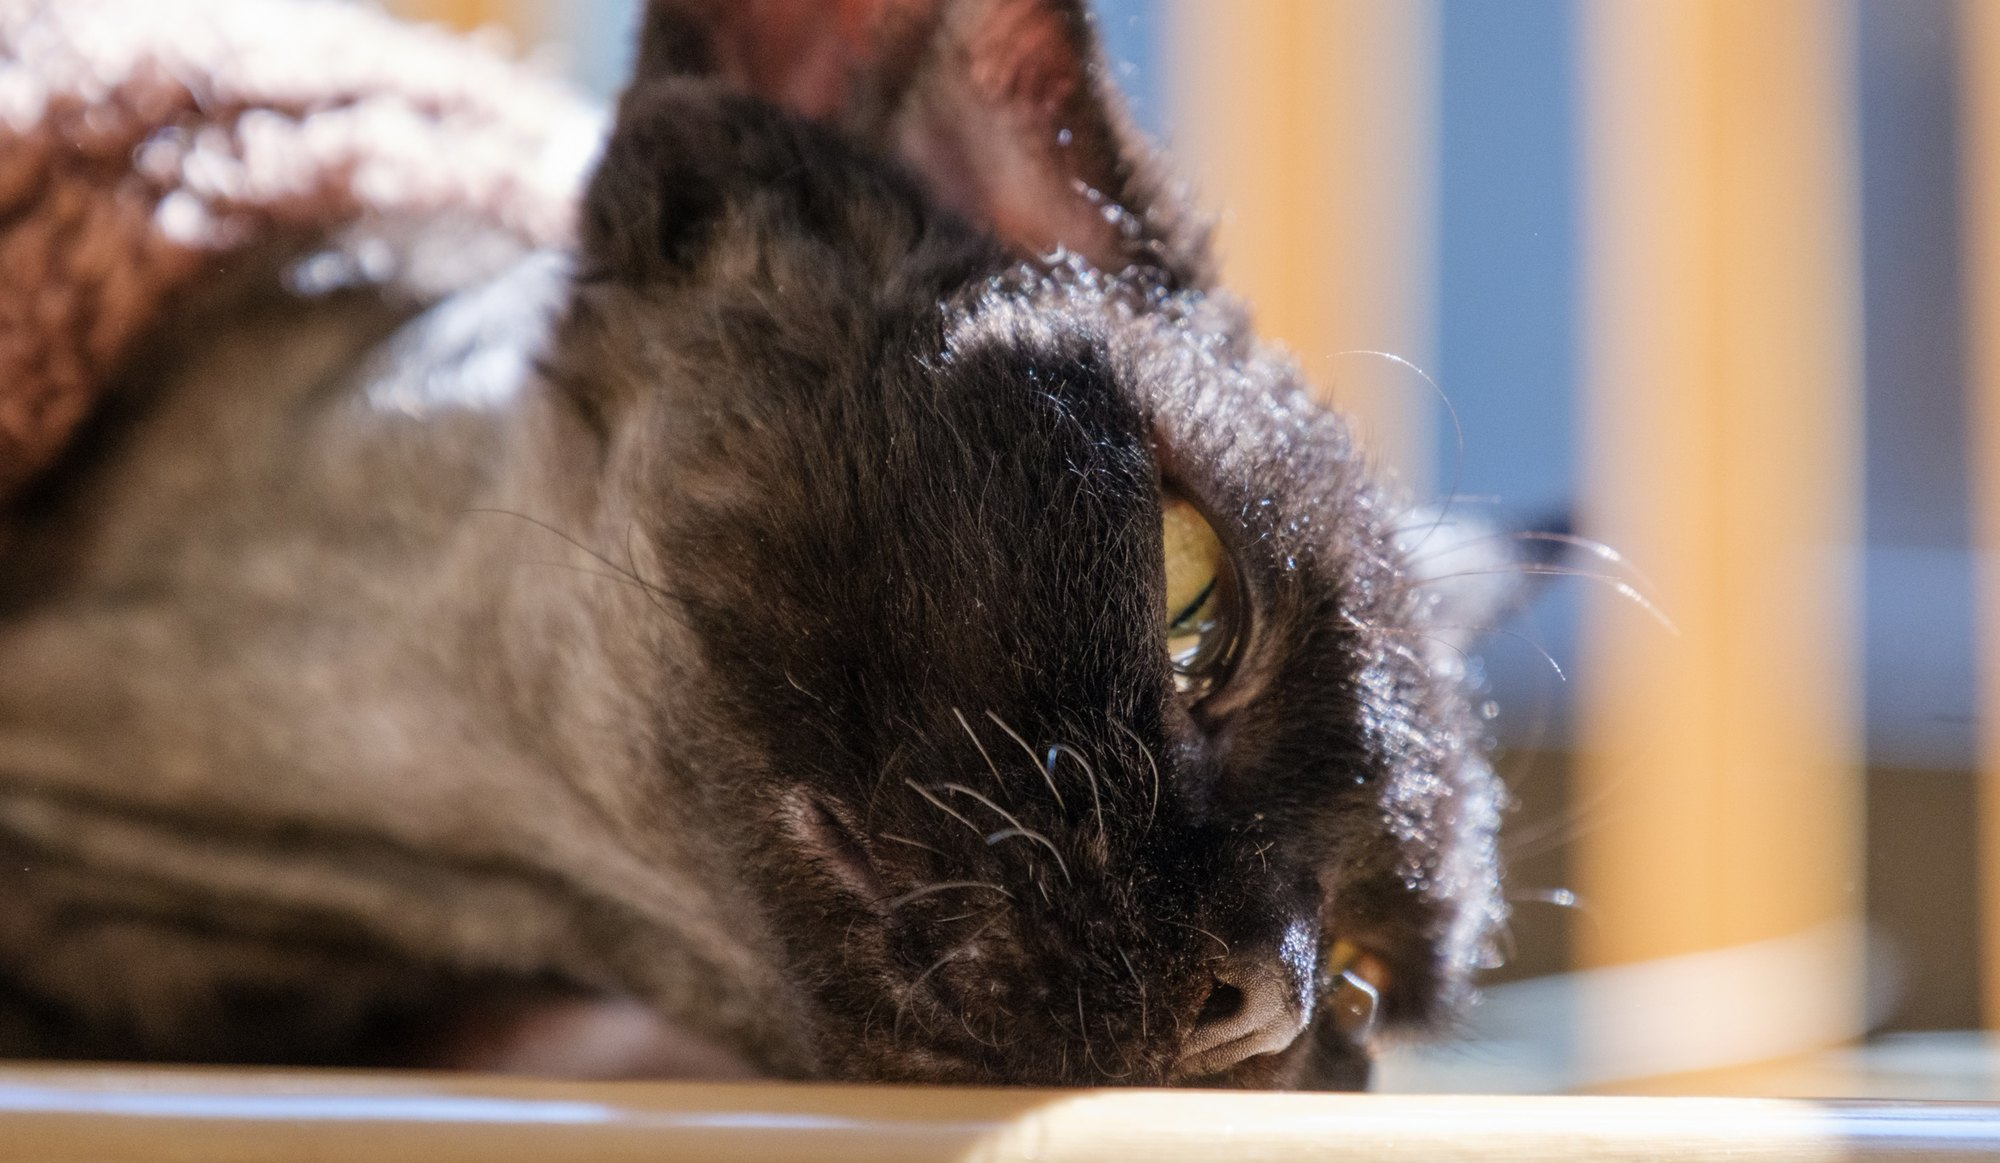
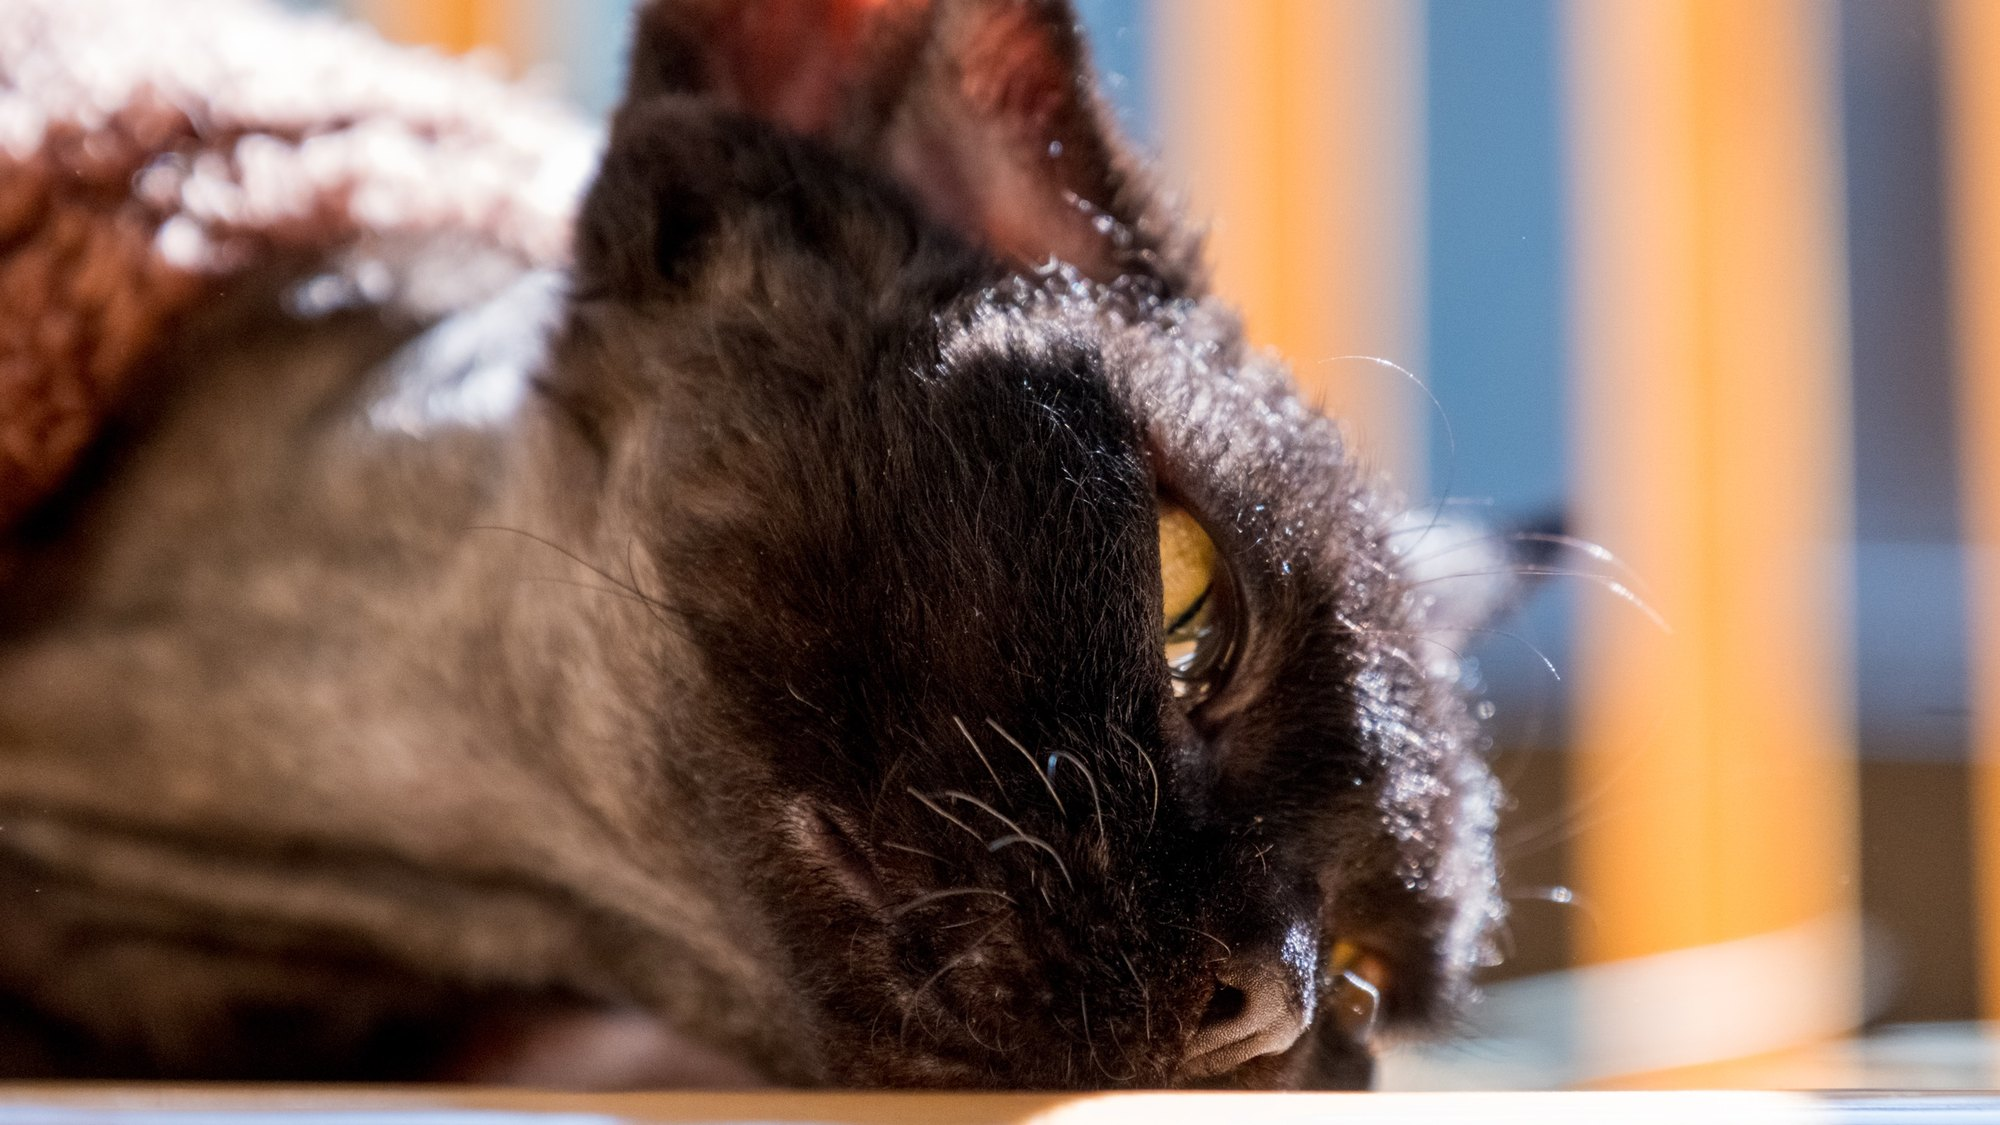
Selected work: new edit of the black Devon Rex
Claude-Session: https://claude.ai/code/session_015mS19cJY3dQnjX4obLJE85

diff --git a/portfolio.html b/portfolio.html
@@ -71,7 +71,7 @@ figcaption { margin-top:12px; font-family:'Fraunces',serif; font-style:italic; f
     <figure class="pf wide"><img src="portfolio/04.jpg" width="2000" height="1124" alt="A white cat crouched at the edge of a patch of sunlight, the rest of the room in shadow" loading="lazy"><figcaption><span class="n">02</span>Waiting at the edge of the light.</figcaption></figure>
     <figure class="pf tall"><img src="portfolio/05.jpg" width="1126" height="2000" alt="Half of a white cat&#x27;s face against a dark background, one ear lit from behind" loading="lazy"><figcaption><span class="n">03</span>Half a face, all ears.</figcaption></figure>
     <figure class="pf tall"><img src="portfolio/02.jpg" width="1333" height="2000" alt="Windy stepping out of the dark into a single slant of light" loading="lazy"><figcaption><span class="n">04</span>Stepping into the light.</figcaption></figure>
-    <figure class="pf wide"><img src="portfolio/16.jpg" width="2000" height="1163" alt="A black Devon Rex cat resting its chin on a chair, a strip of sunlight across one eye and its curly fur" loading="lazy"><figcaption><span class="n">05</span>A strip of sun across the chair.</figcaption></figure>
+    <figure class="pf wide"><img src="portfolio/16.jpg" width="2000" height="1125" alt="A black Devon Rex cat resting its chin on a chair, a strip of sunlight across one eye and its curly fur" loading="lazy"><figcaption><span class="n">05</span>A strip of sun across the chair.</figcaption></figure>
   </section>
   <section class="grp">
     <header class="gh"><span class="gn">II</span><h2>Eye to eye</h2><p>Faces, and the moment they gaze back.</p></header>
